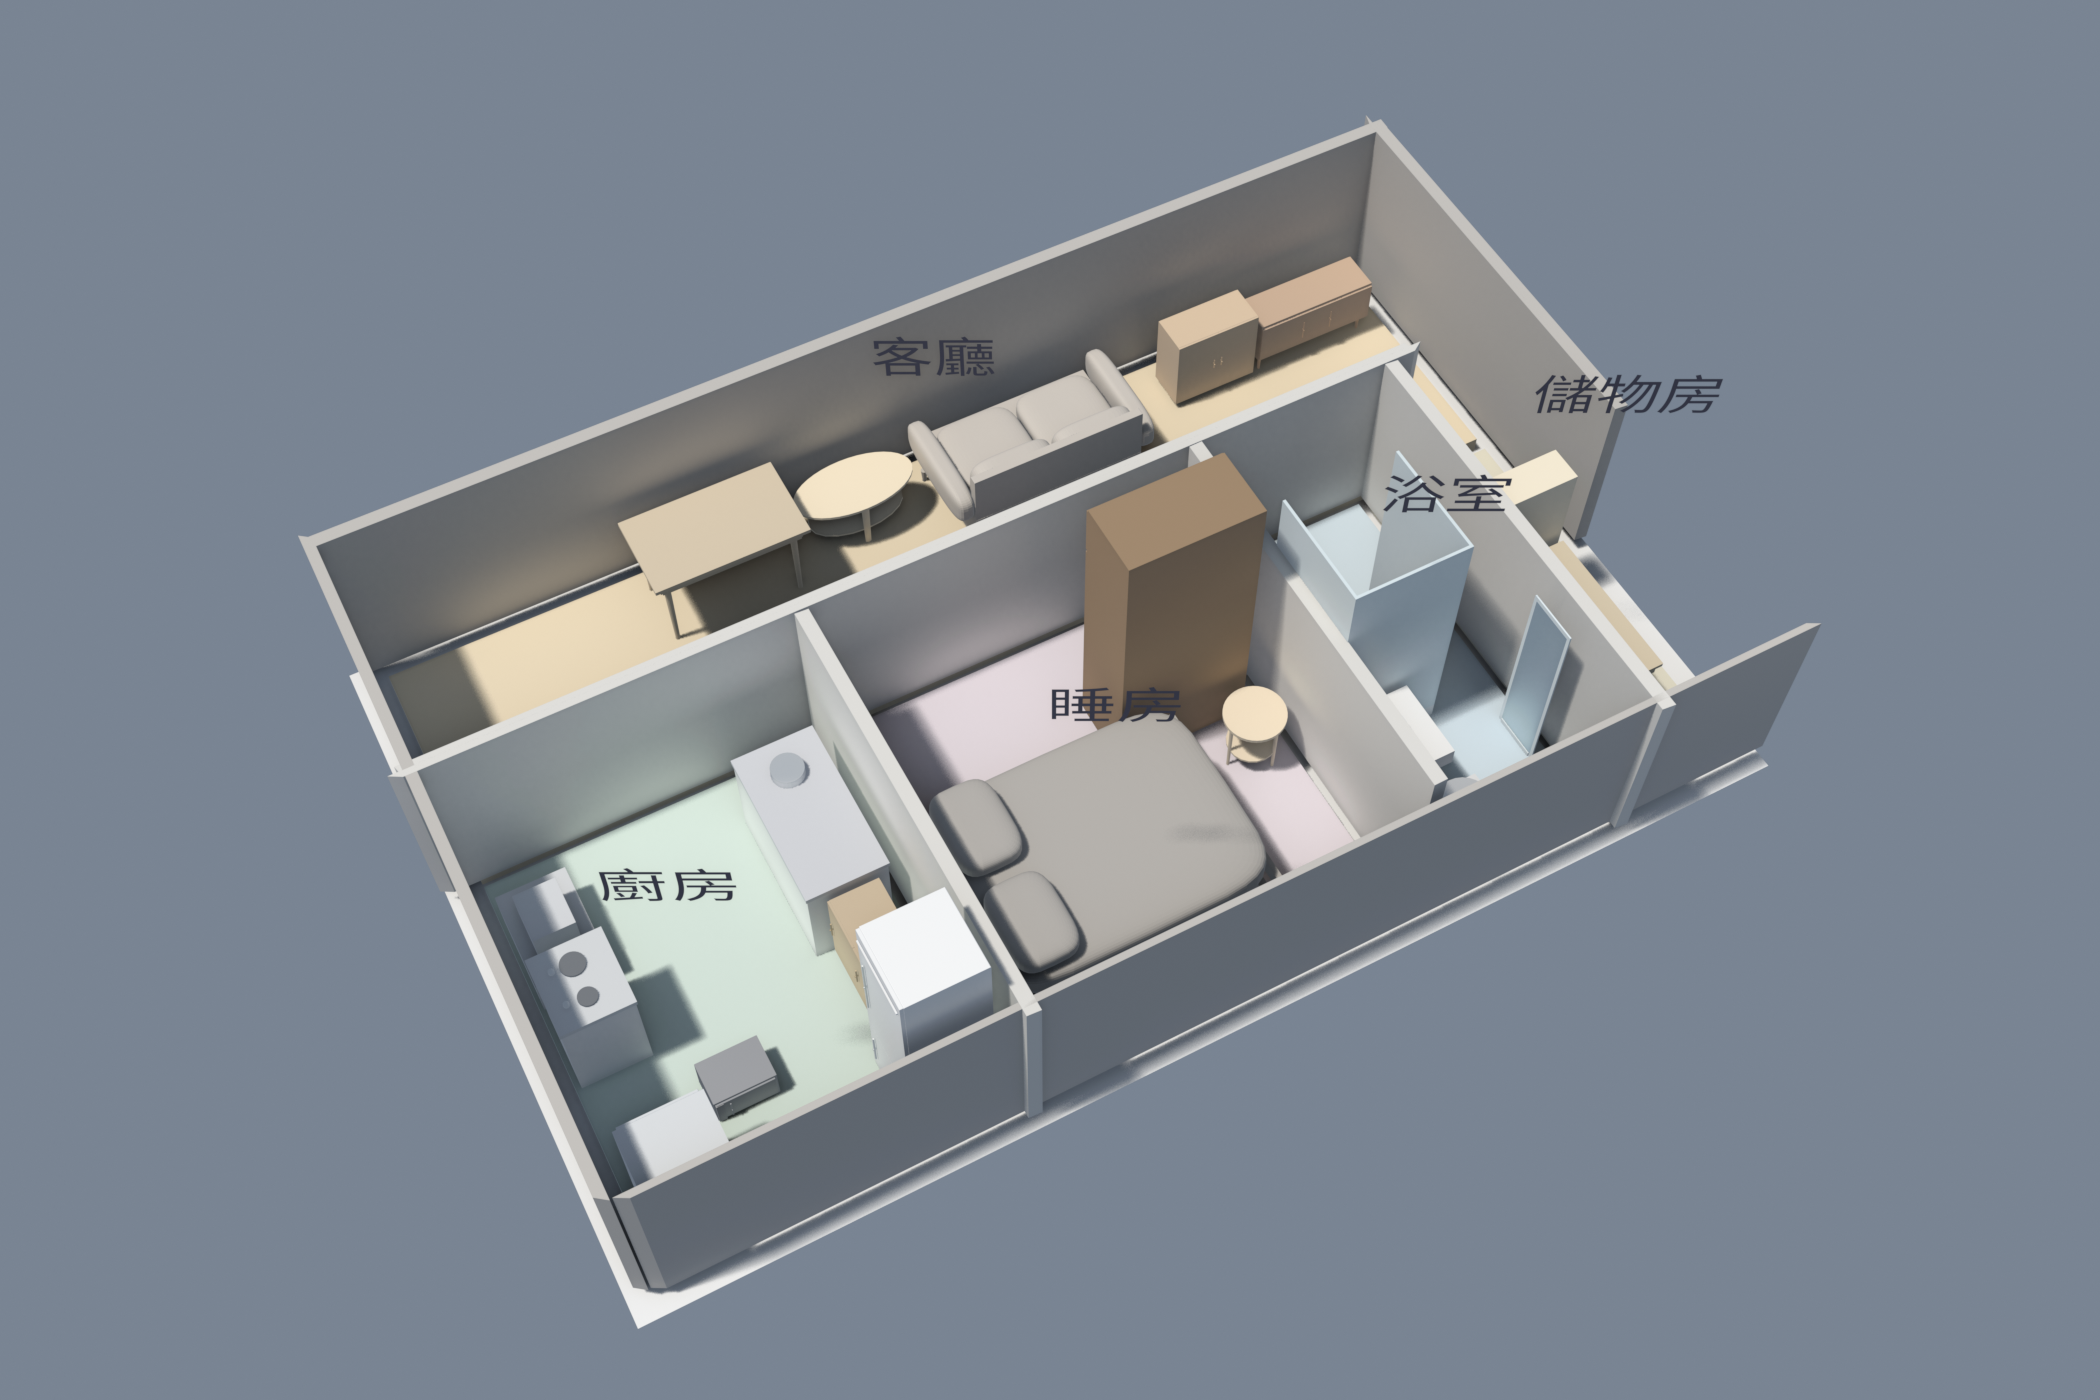
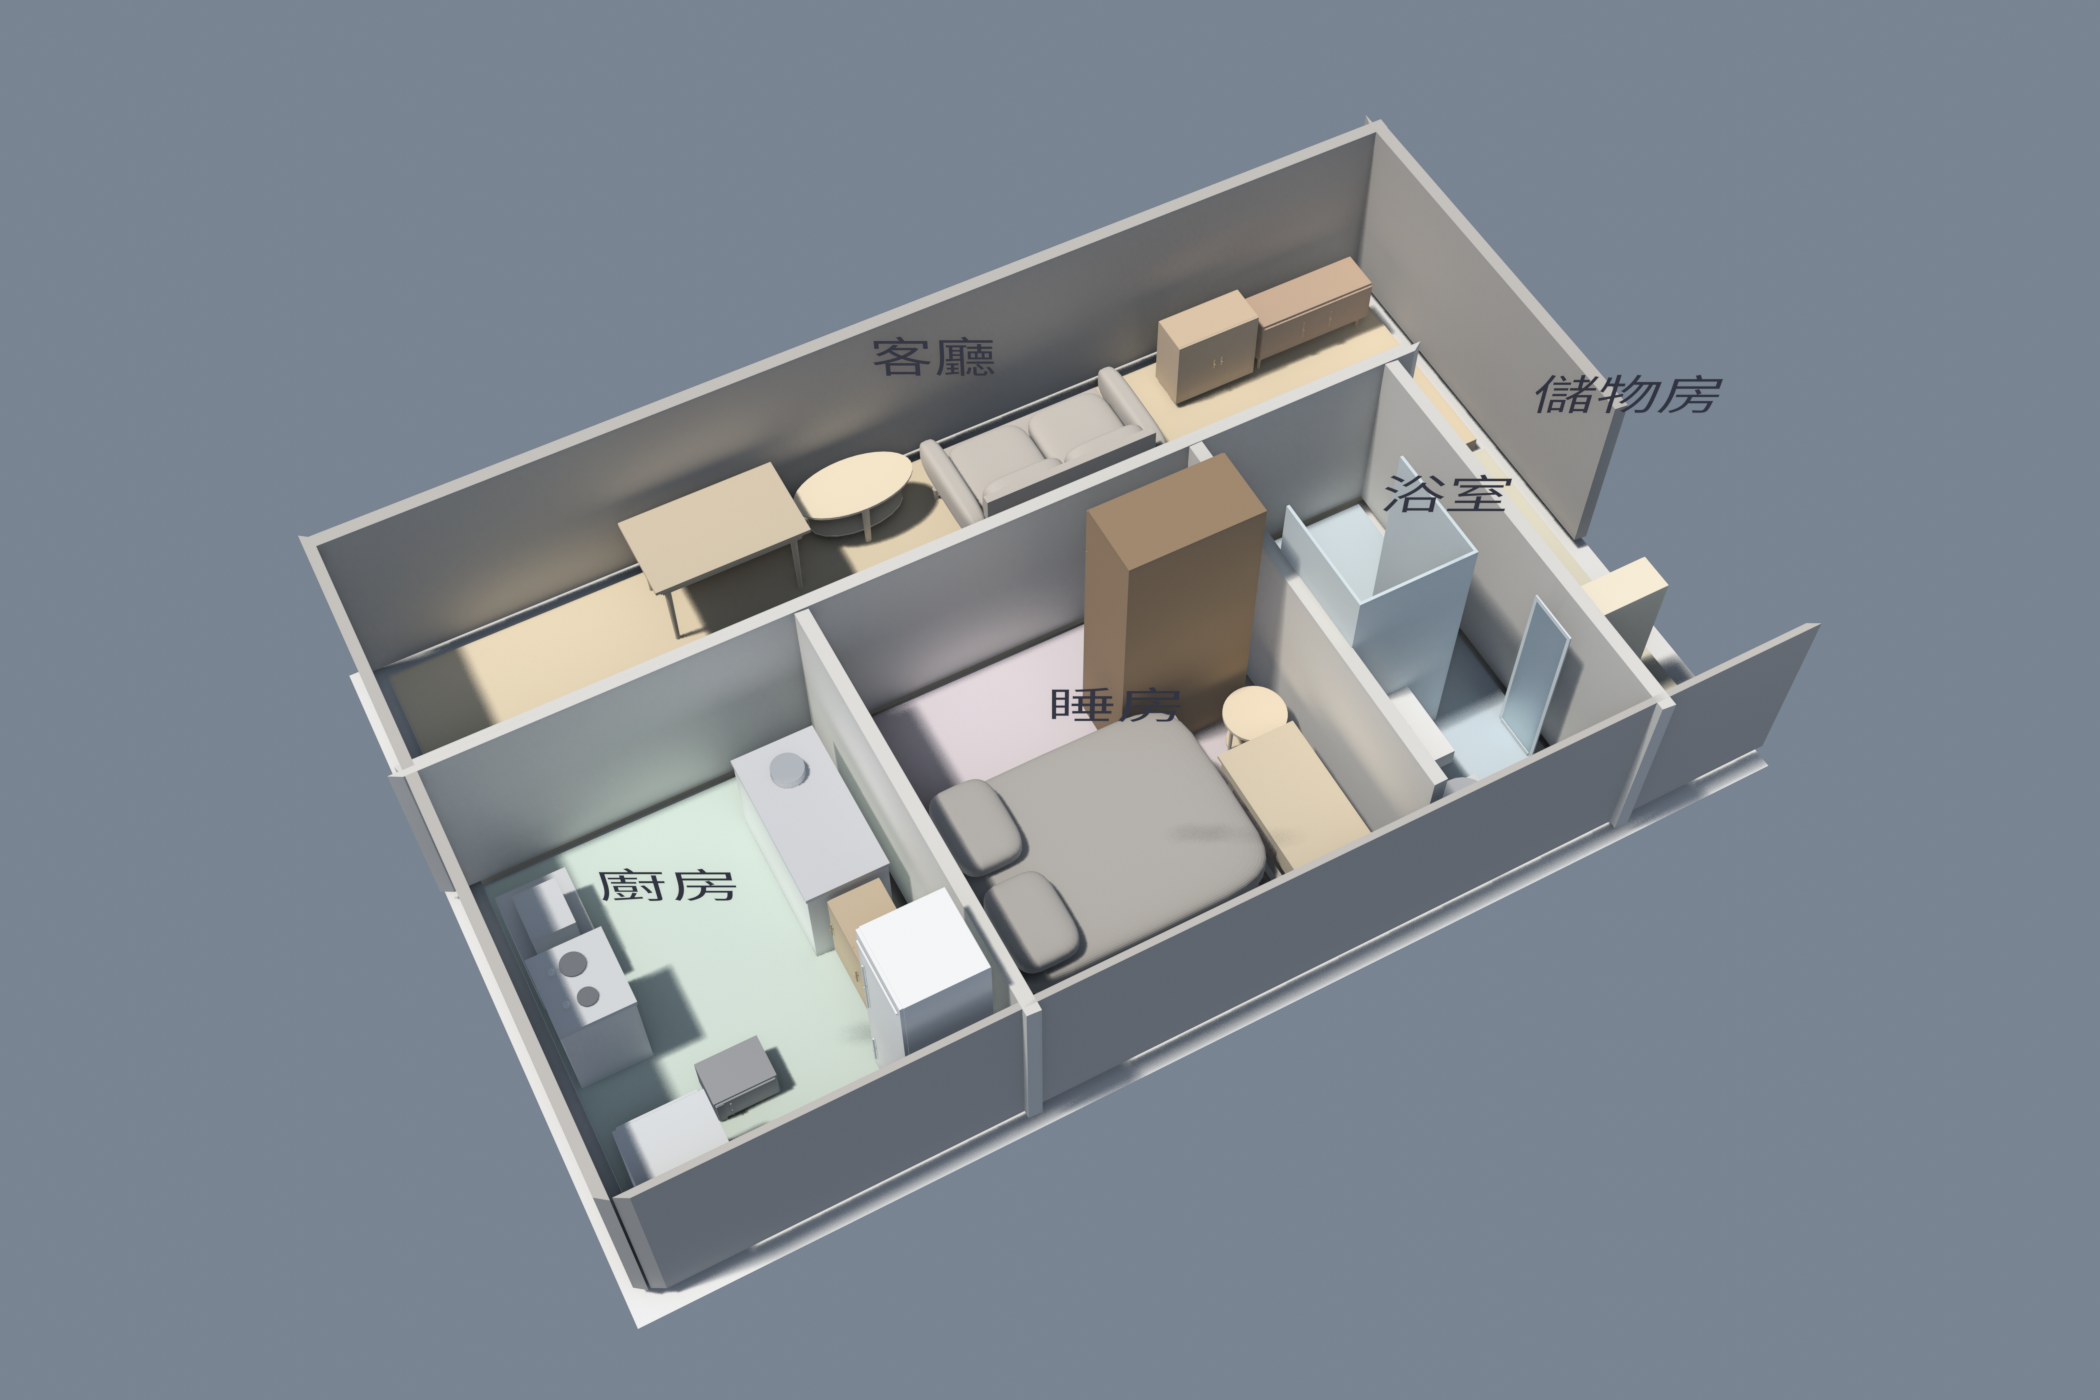
门口走道：唔准被家具占（衣柜曾经压住浴室门 0.386m2）
用户指出「衣柜挡住厕所的门了」—— 确实如此：
plan_hk_b 睡房的衣柜（750x580）压住浴室门洞走道 0.386m2，扇门开唔到。

根因：门口走道只在**建模阶段**做硬过滤，而放寬阶梯（为了塞入床而
把走道缩到 25%）本身就係「容许家具踩入走道」；再加 L2.5 修复遍
只处理 walkway_blocked、唔处理门的侵占。于是走道失守。

改法：
- livability 新增 door_blocked 规则（门口走道被占 > 0.03m2 就报）
- L2.5 修复遍同时处理 walkway_blocked 和 door_blocked
- try_nudge 的目标由「有冇踩到」改成**被占面积**：
  三件家具一齐踩住同一条走道时，单独挪走衣柜不会令 violation 消失，
  二元判定就當「冇改善」而唔肯郁 —— 但 0.41m2 -> 0.20m2 就係
  「度门由开唔到变成开得到」
- advisory 把 door_blocked 浮上来（软伤都要有人认领）

为什么 door_blocked 用 soft 而唔係 hard：1.43m 深的睡房裡，床一定要
踩到门洞走道（实测避开走道的合法位置 = 0 个）。算 hard 的话，求解器
就会用「唔摆床」来消灭它 —— 又回到「冇床嘅睡房」。所以它只做两件事：
引擎永远先试挪开；挪唔到就老實報出來交俾顾客決定。

实测：衣柜对浴室门的侵占 0.386m2 -> 0.074m2，睡房硬伤 0；
床仍然踩住两条门洞走道（0.24 + 0.125m2）—— 这是 3380x1430 放
2060 长的床的几何必然，报告已明写。

diff --git a/packages/geometry/hkgeometry/llm_advisor.py b/packages/geometry/hkgeometry/llm_advisor.py
@@ -652,6 +652,16 @@ def _fits(room: Room, p: Placement, others: list[Placement]) -> bool:
     return True
 
 
+def _door_block_area(room: Room, lay: Layout) -> float:
+    """全房門口走道被家具占咗幾多 m²。"""
+    from .greedy import door_approach_zones
+    tot = 0.0
+    for _oid, z in door_approach_zones(room):
+        for p in lay.placements:
+            tot += p.footprint().intersection(z).area
+    return tot / 1e6
+
+
 def try_nudge(room: Room, lay: Layout, inst: str, step_mm: int = 50,
               max_steps: int = 14) -> tuple[bool, int, int, str]:
     """局部補丁：在原位附近螺旋搜索，找一個「確實修好了問題」的位移。
@@ -678,7 +688,13 @@ def try_nudge(room: Room, lay: Layout, inst: str, step_mm: int = 50,
     #   （挪完之後那件背唔到牆 / 開唔到門），外層裁決照樣整輪回滾，白做。
     lv_before = check_livability(room, lay)
     h_before = len(lv_before.hard)
-    rules_on = {v.rule for v in lv_before.hard if inst in v.subjects}
+    # ★ 門口走道用「被占面積」做目標，唔係「有冇踩到」。
+    #   為什麼：細房裡 3 件家具一齊踩住同一條走道時，單獨挪走衣櫃
+    #   唔會令 violation 消失，二元判定就當「冇改善」而唔肯郁 ——
+    #   但實際上 0.41m² → 0.20m² 就係「度門由開唔到變成開得到」。
+    a_before = _door_block_area(room, lay)
+    rules_on = {v.rule for v in (lv_before.hard + lv_before.soft)
+                if v.rule in ("walkway_blocked", "door_blocked") and inst in v.subjects}
     un_before = set(_unreachable_items(room, lay))
 
     ox, oy = p.x, p.y
@@ -694,6 +710,7 @@ def try_nudge(room: Room, lay: Layout, inst: str, step_mm: int = 50,
         p.x, p.y = ox + dx, oy + dy
         if moved and not _fits(room, p, others):
             continue
+
         have, _ = front_clearance(room, lay, p)
         if need and have + 20 < need:
             continue                      # 前淨空不足，直接淘汰
@@ -715,10 +732,13 @@ def try_nudge(room: Room, lay: Layout, inst: str, step_mm: int = 50,
         if len(lv_after.hard) > h_before:
             continue                      # 修一件、整壞兩件，唔換
         still = [v for v in lv_after.hard
-                 if inst in v.subjects and v.rule in rules_on]
+                 if inst in v.subjects and v.rule in rules_on
+                 and v.rule != "door_blocked"]
         if still:
-            continue                      # 呢件自己嘅問題冇修好
-        gain = (h_before - len(lv_after.hard)) + (1.0 if rules_on else 0.0)
+            continue                      # 呢件自己嘅硬問題冇修好
+        a_after = _door_block_area(room, lay)
+        # 目標 = 硬傷條數 + 門口走道被占面積(m²)。兩者都係「越細越好」。
+        gain = (h_before + a_before) - (len(lv_after.hard) + a_after)
         scored.append((gain, -0.02 * (abs(dx) + abs(dy)), dx, dy, have,
                        len(lv_after.hard)))
     p.x, p.y = ox, oy

diff --git a/packages/geometry/hkgeometry/livability.py b/packages/geometry/hkgeometry/livability.py
@@ -56,6 +56,10 @@ class LivabilityReport:
         return [v for v in self.violations if v.severity == "hard"]
 
     @property
+    def soft(self):
+        return [v for v in self.violations if v.severity != "hard"]
+
+    @property
     def score(self) -> float:
         """0-100。硬伤扣得重。"""
         s = 100.0
@@ -303,6 +307,31 @@ def check_livability(room: Room, layout: Layout) -> LivabilityReport:
             "walkway_blocked", "hard", [inst],
             "從大門走不到 %s 前面（人寬 %dmm 過不去）" % (inst, WALK_MIN_MM),
             "騰出通道"))
+
+    # ── ⑨ 門口走道唔可以被家具占
+    #    ★ 少了這條，求解器就會把衣櫃擺正浴室門口 —— 實測 plan_hk_b：
+    #      睡房嘅衣櫃（750x580）壓住浴室門走道 0.386m²，成扇門開唔到。
+    #      走道縮放（放寬階梯）之後更加容易發生，因為放寬本身就係
+    #      「容許家具踩入走道」。所以走道必須由**宜居檢查**獨立把關，
+    #      唔可以只靠建模階段嘅硬過濾。
+    from .greedy import door_approach_zones
+    for _oid, z in door_approach_zones(room):
+        hit = []
+        for p in layout.placements:
+            a = p.footprint().intersection(z).area / 1e6
+            if a > 0.03:
+                hit.append((p.inst, a))
+        if hit:
+            names = "、".join(i for i, _ in hit)
+            # ★ 用 soft 而唔係 hard：1.43m 深的睡房裡，床一定要踩到門洞走道
+            #   （實測：避開走道的合法位置 = 0 個）。如果算 hard，求解器就會
+            #   用「唔擺床」來消滅這條硬傷 —— 又回到「冇床嘅睡房」。
+            #   所以它只做兩件事：① 引擎永遠先試把家具挪出去（L2.5 修復遍）
+            #   ② 挪唔到就老實報出來，交俾顧客決定。
+            rep.violations.append(Violation(
+                "door_blocked", "soft", [i for i, _ in hit],
+                "門口走道被 %s 擋住咗（%.2f m²），扇門開唔到" % (names, sum(a for _, a in hit)),
+                "把擋住門口的家具挪開"))
 
     # ── ⑧ 沙发背对门（坐下正对门口会不安）
     if sofa:

diff --git a/packages/geometry/hkgeometry/advisory.py b/packages/geometry/hkgeometry/advisory.py
@@ -183,17 +183,19 @@ def advise(flat, house, requested: dict, unassigned: list | None = None) -> list
         #    外層閉環見到「0 條意見」就以為搞掂收工 —— 實測客廳剩 1 條硬傷
         #    卻報 0 條顧問意見，閉環提早收斂。硬傷必須全部浮上水面。
         handled = {"walkway_blocked", "sofa_faces_tv"}
-        for v in lv.hard:
-            if v.rule in handled:
-                continue
+        # ★ door_blocked 係 soft（細房裡真係可能避唔開），但佢一定要有人認領 ——
+        #   一扇開唔到嘅門係顧客必須知嘅事，唔可以靜靜雞過去。
+        pending = [v for v in lv.hard if v.rule not in handled] +                   [v for v in lv.soft if v.rule == "door_blocked"]
+        for v in pending:
             out.append(Advice(
                 room=r.id, room_label=r.label or r.id, kind="blocked",
-                severity="high", subjects=list(v.subjects),
+                severity="high" if v.severity == "hard" else "medium",
+                subjects=list(v.subjects),
                 headline="%s %s" % (r.label or r.id, v.detail),
                 detail=v.detail,
                 options=list(RULE_OPTIONS.get(v.rule,
-                                              ["換更小尺寸的款式", "移到其他房間",
-                                               "改為定制（貼合尺寸）"])),
+                                              ["把擋住門口的家具挪開",
+                                               "換個位置", "改為定制（貼合尺寸）"])),
                 facts={"rule": v.rule, "subjects": list(v.subjects), "detail": v.detail}))
     return out
 

diff --git a/packages/geometry/hkgeometry/house.py b/packages/geometry/hkgeometry/house.py
@@ -445,8 +445,10 @@ def solve_house(flat: Flat, items: list[Placement], weights: GreedyWeights | Non
             continue
         r = flat.room(rid)
         for _pass in range(3):
-            stuck = sorted({v.subjects[0] for v in check_livability(r, lay).hard
-                            if v.rule == "walkway_blocked" and v.subjects})
+            _lv = check_livability(r, lay)
+            stuck = sorted({s for v in (_lv.hard + _lv.soft)
+                            if v.rule in ("walkway_blocked", "door_blocked")
+                            for s in v.subjects})
             if not stuck:
                 break
             moved = False
